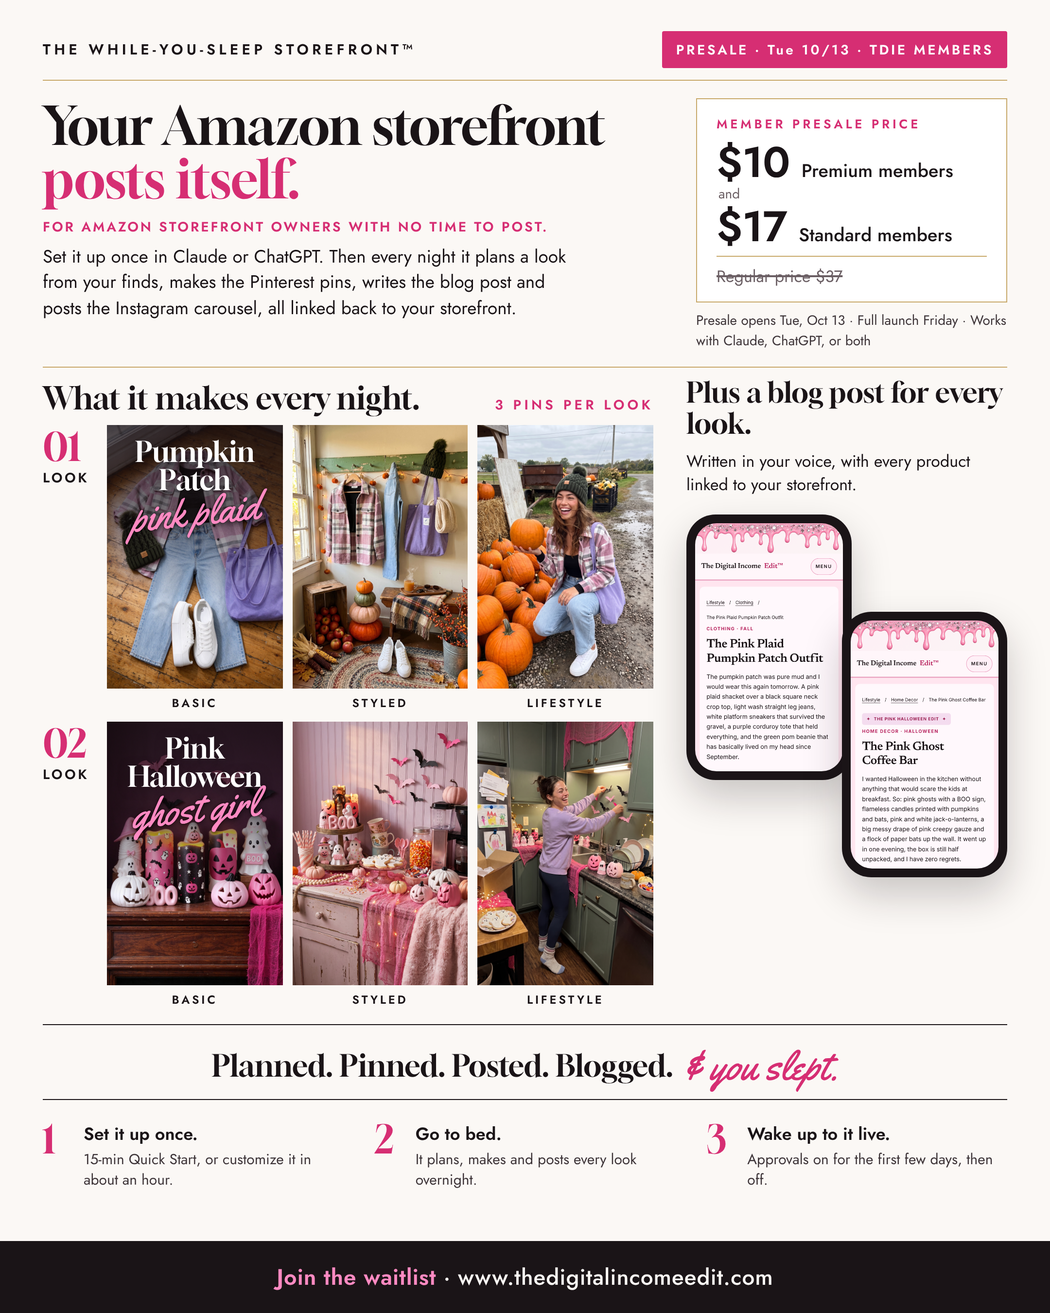
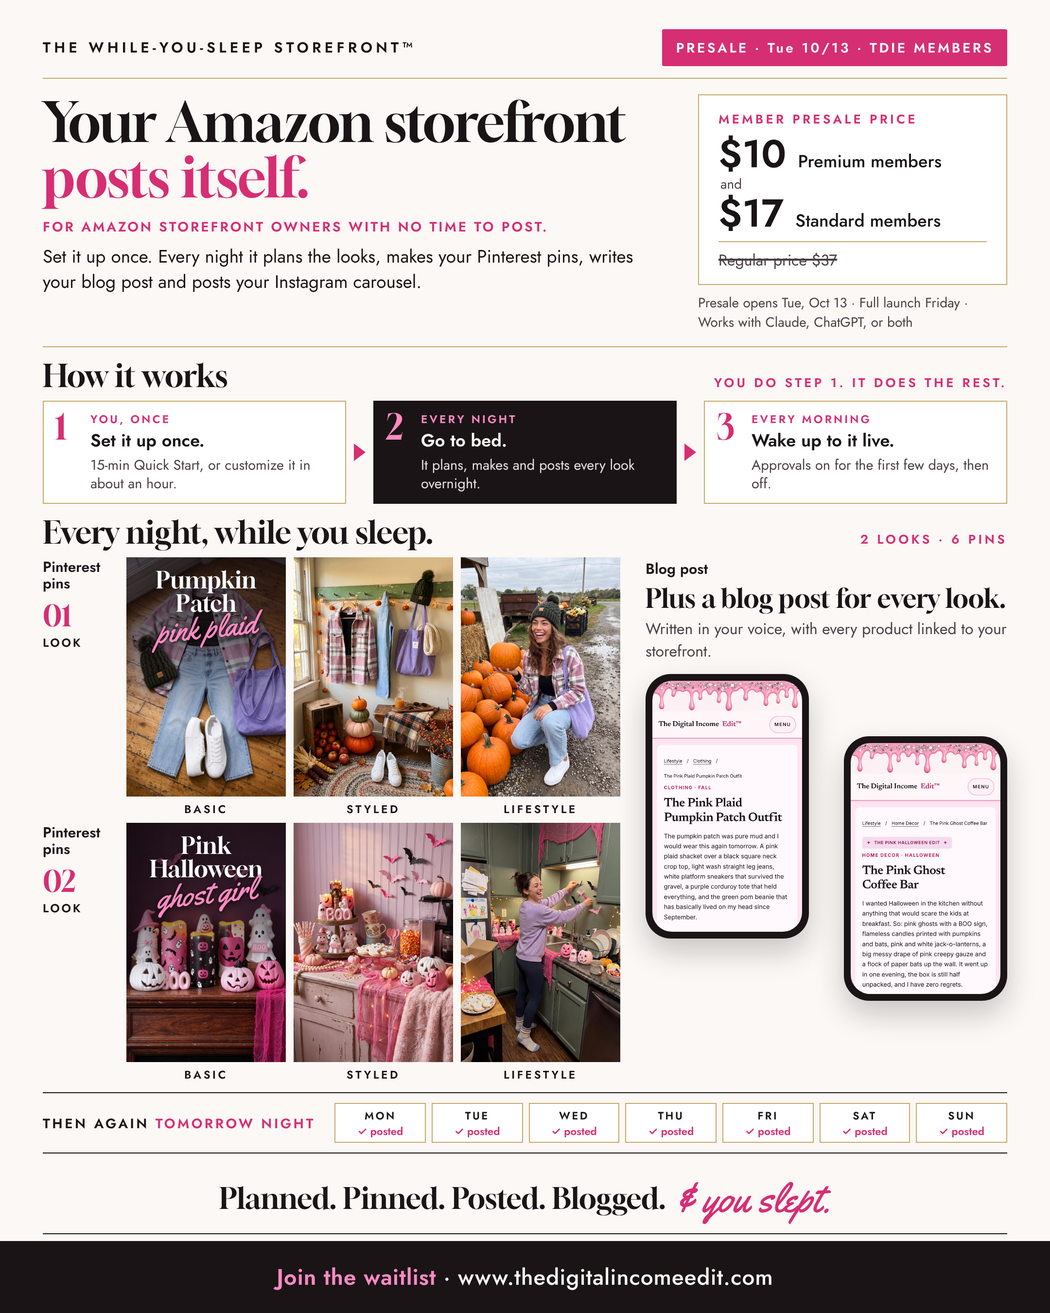
WYS presale poster: show the system, not just outputs
Adds a How it works flow (you once / every night / every morning), labels
outputs by channel, and a week strip so it reads as a nightly system.
Portable render script.

Claude-Session: https://claude.ai/code/session_01PnXq8563XBZe9JqR7UM4ct

diff --git a/ops/posters/wys-presale-2026-10/poster.html b/ops/posters/wys-presale-2026-10/poster.html
@@ -8,164 +8,150 @@
 @font-face { font-family: "Yellowtail"; src: url("fonts/Yellowtail-Regular.ttf"); font-display: block; }
 @font-face { font-family: "Jost"; src: url("fonts/Jost.ttf"); font-weight: 100 900; font-display: block; }
 
-:root {
-  --cream: #FBF8F5;
-  --ink: #1A1417;
-  --hot: #D62E73;
-  --bubble: #FF8AC2;
-  --gold: #C8A96A;
-  --pad: 44px;
-}
+:root { --cream: #FBF8F5; --ink: #1A1417; --hot: #D62E73; --bubble: #FF8AC2; --gold: #C8A96A; --muted: #4a3f44; --pad: 44px; }
 * { box-sizing: border-box; margin: 0; padding: 0; }
 html, body { background: var(--cream); }
 body { width: 1080px; color: var(--ink); font-family: "Jost", sans-serif; -webkit-font-smoothing: antialiased; }
-.poster { width: 1080px; background: var(--cream); position: relative; }
+.poster { width: 1080px; background: var(--cream); }
 .fb .poster { height: 1350px; overflow: hidden; display: flex; flex-direction: column; }
 .inner { padding: 0 var(--pad); }
 .fb .inner { flex: 1; display: flex; flex-direction: column; }
-
 .gold-rule { height: 1px; background: var(--gold); }
+.label { font-weight: 600; font-size: 13px; letter-spacing: 0.2em; text-transform: uppercase; }
+.pink { color: var(--hot); }
 
-/* ---------- top line ---------- */
-.topline { display: flex; justify-content: space-between; align-items: center; padding-top: 38px; padding-bottom: 14px; }
+/* top line */
+.topline { display: flex; justify-content: space-between; align-items: center; padding: 30px 0 12px; }
 .kicker { font-weight: 600; font-size: 15px; letter-spacing: 0.24em; }
 .badge { background: var(--hot); color: #fff; font-weight: 600; font-size: 14px; letter-spacing: 0.16em; padding: 9px 14px; border-radius: 2px; }
 
-/* ---------- hero ---------- */
-.hero { display: grid; grid-template-columns: minmax(0, 1fr) 330px; gap: 40px; padding: 26px 0 26px; align-items: start; }
-h1 { font-family: "Gloock", serif; font-weight: 400; font-size: 66px; line-height: 1.02; letter-spacing: -0.01em; }
+/* hero */
+.hero { display: grid; grid-template-columns: minmax(0, 1fr) 318px; gap: 36px; padding: 18px 0 18px; align-items: start; }
+h1 { font-family: "Gloock", serif; font-weight: 400; font-size: 56px; line-height: 1.02; letter-spacing: -0.01em; }
 h1 em { font-style: normal; color: var(--hot); }
-.sub { font-size: 21px; line-height: 1.42; margin-top: 18px; max-width: 30em; }
+.who-for { font-weight: 600; font-size: 14px; letter-spacing: 0.14em; text-transform: uppercase; color: var(--hot); margin-top: 12px; }
+.sub { font-size: 18.5px; line-height: 1.42; margin-top: 8px; }
+.price { border: 1px solid var(--gold); background: #fff; padding: 15px 20px 13px; }
+.price-row { display: flex; align-items: baseline; gap: 12px; margin-top: 6px; }
+.price-row .amt { font-weight: 600; font-size: 44px; line-height: 1; }
+.price-row .who { font-size: 18px; font-weight: 500; }
+.price-and { font-size: 14px; color: var(--muted); margin-left: 2px; }
+.price-reg { margin-top: 8px; padding-top: 7px; border-top: 1px solid var(--gold); font-size: 16px; text-decoration: line-through; text-decoration-thickness: 1.5px; color: var(--muted); }
+.sidenote { font-size: 14px; line-height: 1.45; margin-top: 8px; color: var(--muted); }
 
-.price { border: 1px solid var(--gold); background: #fff; padding: 20px 24px 18px; }
-.price-label { font-weight: 600; font-size: 13px; letter-spacing: 0.22em; color: var(--hot); }
-.price-row { display: flex; align-items: baseline; gap: 12px; margin-top: 10px; }
-.price-row .amt { font-weight: 600; font-size: 50px; line-height: 1; letter-spacing: -0.01em; }
-.price-row .who { font-size: 19px; font-weight: 500; }
-.price-and { font-size: 15px; color: #6b5f64; margin: 4px 0 0 2px; }
-.price-reg { margin-top: 12px; padding-top: 10px; border-top: 1px solid var(--gold); font-size: 17px; text-decoration: line-through; text-decoration-thickness: 1.5px; color: #6b5f64; }
-.sidenote { font-size: 14.5px; line-height: 1.5; margin-top: 12px; color: #3d3438; }
+/* system: 3 steps as a flow */
+.sys-head { display: flex; justify-content: space-between; align-items: baseline; padding: 16px 0 10px; }
+h2 { font-family: "Gloock", serif; font-weight: 400; font-size: 32px; line-height: 1.1; }
+.flow { display: grid; grid-template-columns: minmax(0,1fr) 28px minmax(0,1fr) 28px minmax(0,1fr); align-items: stretch; }
+.stage { border: 1px solid var(--gold); background: #fff; padding: 12px 14px 12px; display: grid; grid-template-columns: 30px minmax(0,1fr); gap: 6px; }
+.stage .num { font-family: "Gloock", serif; font-size: 36px; line-height: 0.9; color: var(--hot); }
+.stage .when { font-weight: 600; font-size: 11.5px; letter-spacing: 0.18em; color: var(--hot); display: block; }
+.stage b { display: block; font-weight: 600; font-size: 18px; margin-top: 1px; }
+.stage span.t { display: block; font-size: 14.5px; line-height: 1.35; margin-top: 2px; color: var(--muted); }
+.stage.night { background: var(--ink); color: var(--cream); border-color: var(--ink); }
+.stage.night .num, .stage.night .when { color: var(--bubble); }
+.stage.night span.t { color: #e9dfe3; }
+.arrow { display: flex; align-items: center; justify-content: center; }
+.arrow::before { content: ""; width: 0; height: 0; border-top: 9px solid transparent; border-bottom: 9px solid transparent; border-left: 12px solid var(--hot); }
 
-/* ---------- section heads ---------- */
-.sec-head { display: flex; justify-content: space-between; align-items: baseline; padding: 20px 0 14px; }
-h2 { font-family: "Gloock", serif; font-weight: 400; font-size: 36px; line-height: 1.1; }
-.count { font-weight: 600; font-size: 14px; letter-spacing: 0.22em; color: var(--hot); }
-
-/* ---------- looks ---------- */
-.body-grid { display: grid; grid-template-columns: minmax(0, 1fr) 300px; gap: 34px; }
-.look { display: grid; grid-template-columns: 62px minmax(0, 1fr); gap: 10px; margin-bottom: 18px; }
-.look-label { padding-top: 2px; }
-.look-label .n { font-family: "Gloock", serif; font-size: 40px; line-height: 1; color: var(--hot); display: block; }
-.look-label .w { font-weight: 600; font-size: 14px; letter-spacing: 0.16em; text-transform: uppercase; }
-.trio { display: grid; grid-template-columns: repeat(3, minmax(0, 1fr)); gap: 10px; }
+/* outputs */
+.makes { display: flex; justify-content: space-between; align-items: baseline; padding: 16px 0 10px; }
+.out-grid { display: grid; grid-template-columns: minmax(0, 1fr) 292px; gap: 24px; }
+.channel { display: grid; grid-template-columns: 74px minmax(0, 1fr); gap: 12px; margin-bottom: 10px; }
+.ch-name { padding-top: 2px; }
+.ch-name .p { font-weight: 600; font-size: 15px; display: block; line-height: 1.15; }
+.ch-name .look { display: block; margin-top: 8px; font-family: "Gloock", serif; font-size: 30px; line-height: 1; color: var(--hot); }
+.ch-name .lw { font-weight: 600; font-size: 12px; letter-spacing: 0.16em; text-transform: uppercase; }
+.trio { display: grid; grid-template-columns: repeat(3, minmax(0, 1fr)); gap: 8px; }
 .shot { position: relative; aspect-ratio: 2 / 3; overflow: hidden; background: #eee; }
 .shot img { width: 100%; height: 100%; object-fit: cover; display: block; }
-.cap { font-weight: 600; font-size: 13px; letter-spacing: 0.2em; margin-top: 8px; text-align: center; }
+.cap { font-weight: 600; font-size: 11.5px; letter-spacing: 0.2em; margin-top: 5px; text-align: center; }
 
-/* Basic overlay: layered magazine lockup */
-.lockup { position: absolute; inset: 0 0 auto 0; height: 62%; padding: 18px 12px 0;
-  background: linear-gradient(180deg, rgba(20,12,16,0.72) 0%, rgba(20,12,16,0.5) 45%, rgba(20,12,16,0) 100%);
-  text-align: center; }
-.lockup .serif { font-family: "Gloock", serif; color: #fff; font-size: 40px; line-height: 0.95; letter-spacing: -0.01em; display: block; text-shadow: 0 2px 12px rgba(0,0,0,0.35); }
-.lockup .script { font-family: "Yellowtail", cursive; color: var(--bubble); font-size: 50px; line-height: 1; display: block;
-  transform: rotate(-7deg); margin-top: -18px; position: relative; text-shadow: 0 2px 6px rgba(0,0,0,0.55), 0 0 2px rgba(0,0,0,0.6); }
+.lockup { position: absolute; inset: 0 0 auto 0; height: 68%; padding: 12px 6px 0; text-align: center;
+  background: linear-gradient(180deg, rgba(20,12,16,0.8) 0%, rgba(20,12,16,0.56) 50%, rgba(20,12,16,0) 100%); }
+.lockup .serif { font-family: "Gloock", serif; color: #fff; font-size: 27px; line-height: 0.98; display: block; text-shadow: 0 2px 12px rgba(0,0,0,0.35); }
+.lockup .script { font-family: "Yellowtail", cursive; color: var(--bubble); font-size: 36px; line-height: 1; display: block; transform: rotate(-6deg); margin-top: -2px;
+  text-shadow: 0 2px 6px rgba(0,0,0,0.6), 0 0 2px rgba(0,0,0,0.6); }
 
-/* ---------- blog ---------- */
-.blog h2 { font-size: 32px; }
-.blog p { font-size: 17px; line-height: 1.45; margin-top: 10px; }
-.phones { position: relative; height: 470px; margin-top: 22px; }
-.phone { position: absolute; width: 196px; background: var(--ink); border-radius: 30px; padding: 9px; box-shadow: 0 18px 40px rgba(26,20,23,0.22); }
-.phone img { display: block; width: 100%; border-radius: 22px; }
+.blog .p { font-weight: 600; font-size: 15px; }
+.blog h3 { font-family: "Gloock", serif; font-weight: 400; font-size: 24px; line-height: 1.12; margin-top: 4px; }
+.blog p { font-size: 15px; line-height: 1.4; margin-top: 6px; color: var(--muted); }
+.phones { position: relative; height: 330px; margin-top: 12px; }
+.phone { position: absolute; width: 150px; background: var(--ink); border-radius: 26px; padding: 7px; box-shadow: 0 14px 30px rgba(26,20,23,0.22); }
+.phone img { display: block; width: 100%; border-radius: 20px; }
 .phone.p1 { left: 0; top: 0; }
-.phone.p2 { right: 0; top: 112px; }
+.phone.p2 { right: 0; top: 70px; }
 
-/* ---------- phrase ---------- */
-.phrase { border-top: 1px solid var(--ink); border-bottom: 1px solid var(--ink); text-align: center; padding: 14px 0 12px; margin: 6px 0 0; }
-.phrase .p { font-family: "Gloock", serif; font-size: 34px; }
-.phrase .s { font-family: "Yellowtail", cursive; color: var(--hot); font-size: 46px; margin-left: 10px; position: relative; top: 3px; }
+/* destination + week */
+.dest { display: grid; grid-template-columns: auto minmax(0,1fr); gap: 20px; align-items: center; border-top: 1px solid var(--ink); border-bottom: 1px solid var(--ink); padding: 10px 0; margin-top: 4px; }
+.dest .to { font-weight: 600; font-size: 14px; letter-spacing: 0.16em; text-transform: uppercase; }
+.dest .to b { color: var(--hot); font-weight: 600; }
+.week { display: grid; grid-template-columns: repeat(7, minmax(0,1fr)); gap: 6px; }
+.day { text-align: center; border: 1px solid var(--gold); padding: 4px 0 3px; background: #fff; }
+.day .d { font-weight: 600; font-size: 11px; letter-spacing: 0.16em; display: block; }
+.day .c { font-size: 11px; color: var(--hot); font-weight: 600; display: block; }
 
-/* ---------- steps ---------- */
-.steps { display: grid; grid-template-columns: repeat(3, minmax(0, 1fr)); gap: 32px; padding: 22px 0 22px; }
-.step { display: grid; grid-template-columns: 34px minmax(0, 1fr); gap: 8px; }
-.step .num { font-family: "Gloock", serif; font-size: 40px; line-height: 0.9; color: var(--hot); }
-.step b { display: block; font-weight: 600; font-size: 19px; }
-.step span { display: block; font-size: 15.5px; line-height: 1.4; margin-top: 3px; color: #3d3438; }
+/* phrase */
+.phrase { text-align: center; padding: 14px 0 10px; }
+.phrase .p { font-family: "Gloock", serif; font-size: 30px; }
+.phrase .s { font-family: "Yellowtail", cursive; color: var(--hot); font-size: 42px; margin-left: 10px; position: relative; top: 3px; }
+.phrase-wrap { border-bottom: 1px solid var(--ink); }
 
-/* ---------- final bar ---------- */
-.bar { background: var(--ink); color: var(--cream); text-align: center; padding: 26px var(--pad); font-size: 24px; font-weight: 500; letter-spacing: 0.02em; }
+/* bar */
+.bar { background: var(--ink); color: var(--cream); text-align: center; padding: 20px var(--pad); font-size: 23px; font-weight: 500; letter-spacing: 0.02em; }
 .bar .j { color: var(--bubble); font-weight: 600; }
 .fb .bar { margin-top: auto; }
 
-/* ---------- Skool (tall) variant ---------- */
-.skool .hero { padding: 40px 0 40px; }
-.skool h1 { font-size: 72px; }
-.skool .body-grid { display: block; }
-.skool .look { grid-template-columns: 80px minmax(0, 1fr); gap: 14px; margin-bottom: 30px; }
-.skool .look-label .n { font-size: 52px; }
-.skool .trio { gap: 14px; }
-.skool .lockup { padding-top: 26px; }
-.skool .lockup .serif { font-size: 54px; }
-.skool .lockup .script { font-size: 66px; margin-top: -24px; }
-.skool .cap { font-size: 15px; }
-.skool .blog { display: grid; grid-template-columns: minmax(0, 1fr) 540px; gap: 36px; align-items: center; padding: 30px 0 40px; border-top: 1px solid var(--gold); }
-.skool .blog h2 { font-size: 40px; }
-.skool .blog p { font-size: 20px; }
-.skool .phones { height: auto; margin: 0; position: static; display: grid; grid-template-columns: 1fr 1fr; gap: 24px; }
-.skool .phone { position: static; width: auto; }
-.skool .phone.p2 { margin-top: 70px; }
-.skool .phrase { padding: 22px 0 18px; }
-.skool .phrase .p { font-size: 40px; }
-.skool .phrase .s { font-size: 54px; }
-.skool .steps { padding: 34px 0 40px; }
-.skool .step b { font-size: 21px; }
-.skool .step span { font-size: 17px; }
+/* fb fit */
+.fb .out-grid { grid-template-columns: minmax(0,1fr) 372px; gap: 26px; }
+.fb .phones { height: 300px; }
+.fb .phone { width: 168px; }
+.fb .phone.p2 { top: 64px; }
+.fb .blog h3 { font-size: 27px; }
+.fb .blog p { font-size: 16px; }
+.fb .sys-head, .fb .makes { padding: 12px 0 8px; }
+.fb .stage { padding: 10px 12px; }
+.fb .price-row .amt { font-size: 40px; }
+.fb .hero { padding: 16px 0 14px; }
+.fb .lockup .serif { font-size: 24px; }
+.fb .lockup .script { font-size: 32px; }
+.fb .channel { margin-bottom: 6px; }
 
-/* ---- fit pass ---- */
-.lockup { padding: 14px 8px 0; height: 66%; background: linear-gradient(180deg, rgba(20,12,16,0.78) 0%, rgba(20,12,16,0.55) 50%, rgba(20,12,16,0) 100%); }
-.lockup .serif { font-size: 31px; line-height: 0.98; }
-.lockup .script { font-size: 41px; margin-top: -12px; }
-.fb h1 { font-size: 58px; }
-.fb .hero { padding: 22px 0 22px; }
-.fb .sub { font-size: 20px; margin-top: 14px; }
-.fb .price { padding: 16px 20px 14px; }
-.fb .price-row .amt { font-size: 44px; }
-.fb .price-row { margin-top: 8px; }
-.fb .sec-head { padding: 14px 0 10px; }
-.fb h2 { font-size: 32px; }
-.fb .blog h2 { font-size: 29px; margin-top: 10px; }
-.fb .look { margin-bottom: 10px; grid-template-columns: 56px minmax(0,1fr); }
-.fb .cap { margin-top: 6px; font-size: 12px; }
-.fb .phrase { padding: 10px 0 8px; }
-.fb .phrase .p { font-size: 31px; }
-.fb .phrase .s { font-size: 42px; }
-.fb .steps { padding: 16px 0 18px; }
-.fb .step b { font-size: 18px; }
-.fb .step span { font-size: 15px; }
-.fb .bar { padding: 20px var(--pad); font-size: 23px; }
-.fb .phones { height: 430px; margin-top: 18px; }
-.fb .phone { width: 180px; }
-.fb .phone.p2 { top: 100px; }
+/* Skool (tall) */
+.skool .hero { padding: 34px 0 34px; }
+.skool h1 { font-size: 68px; }
+.skool .sub { font-size: 20px; }
+.skool .sys-head, .skool .makes { padding: 28px 0 16px; }
+.skool h2 { font-size: 40px; }
+.skool .stage { padding: 18px 18px; }
+.skool .stage b { font-size: 21px; }
+.skool .stage span.t { font-size: 16px; }
+.skool .out-grid { display: block; }
+.skool .channel { grid-template-columns: 96px minmax(0,1fr); gap: 16px; margin-bottom: 26px; }
+.skool .ch-name .p { font-size: 18px; }
+.skool .ch-name .look { font-size: 44px; }
+.skool .trio { gap: 14px; }
 .skool .lockup { padding-top: 22px; }
 .skool .lockup .serif { font-size: 50px; }
-.skool .lockup .script { font-size: 64px; margin-top: -18px; }
-.who-for { font-weight: 600; font-size: 15px; letter-spacing: 0.14em; text-transform: uppercase; color: var(--hot); margin-top: 16px; }
-.fb .sub { font-size: 18.5px; margin-top: 8px; }
-.fb .who-for { margin-top: 12px; font-size: 14px; }
-.fb h1 { font-size: 54px; }
-.fb .lockup .serif { font-size: 29px; }
-.fb .phones { height: 400px; }
-.fb .phone { width: 170px; }
-.fb .body-grid { grid-template-columns: minmax(0,1fr) 330px; }
-.fb .hero { padding: 18px 0 16px; grid-template-columns: minmax(0,1fr) 320px; }
-.fb .price-and { margin: 0 0 0 2px; font-size: 14px; }
-.fb .price-reg { margin-top: 8px; padding-top: 8px; }
-.fb .sidenote { margin-top: 8px; font-size: 14px; }
-.fb .topline { padding-top: 32px; padding-bottom: 12px; }
-.fb .steps { padding: 14px 0 16px; }
-.lockup .script { margin-top: -2px; transform: rotate(-6deg); }
-.skool .lockup .script { margin-top: -4px; }
-.fb .steps { padding: 22px 0 22px; }
-.skool .phones { align-items: start; }
+.skool .lockup .script { font-size: 64px; margin-top: -4px; }
+.skool .cap { font-size: 14px; margin-top: 8px; }
+.skool .blog { display: grid; grid-template-columns: minmax(0,1fr) 520px; gap: 36px; align-items: center; padding: 10px 0 30px; }
+.skool .blog h3 { font-size: 38px; }
+.skool .blog p { font-size: 19px; }
+.skool .blog .p { font-size: 18px; }
+.skool .phones { position: static; height: auto; margin: 0; display: grid; grid-template-columns: 1fr 1fr; gap: 22px; align-items: start; }
+.skool .phone { position: static; width: auto; padding: 9px; border-radius: 30px; }
+.skool .phone img { border-radius: 22px; }
+.skool .phone.p2 { margin-top: 60px; }
+.skool .dest { padding: 18px 0; }
+.skool .dest .to { font-size: 16px; }
+.skool .day { padding: 8px 0 6px; }
+.skool .day .d, .skool .day .c { font-size: 13px; }
+.skool .phrase { padding: 24px 0 20px; }
+.skool .phrase .p { font-size: 38px; }
+.skool .phrase .s { font-size: 52px; }
+.skool .bar { padding: 28px var(--pad); font-size: 26px; }
+.skool .phrase-wrap { margin-bottom: 36px; }
 </style>
 </head>
 <body>
@@ -181,14 +167,14 @@ h2 { font-family: "Gloock", serif; font-weight: 400; font-size: 36px; line-heigh
       <div>
         <h1>Your Amazon storefront <em>posts itself.</em></h1>
         <p class="who-for">For Amazon storefront owners with no time to post.</p>
-        <p class="sub">Set it up once in Claude or ChatGPT. Then every night it plans a look from your finds, makes the Pinterest pins, writes the blog post and posts the Instagram carousel, all linked back to your storefront.</p>
+        <p class="sub">Set it up once. Every night it plans the looks, makes your Pinterest pins, writes your blog post and posts your Instagram carousel.</p>
       </div>
       <div>
         <div class="price">
-          <div class="price-label">MEMBER PRESALE PRICE</div>
+          <div class="label pink">MEMBER PRESALE PRICE</div>
           <div class="price-row"><span class="amt">$10</span><span class="who">Premium members</span></div>
           <div class="price-and">and</div>
-          <div class="price-row" style="margin-top:2px"><span class="amt">$17</span><span class="who">Standard members</span></div>
+          <div class="price-row" style="margin-top:0"><span class="amt">$17</span><span class="who">Standard members</span></div>
           <div class="price-reg">Regular price $37</div>
         </div>
         <p class="sidenote">Presale opens Tue, Oct 13 · Full launch Friday · Works with Claude, ChatGPT, or both</p>
@@ -196,39 +182,45 @@ h2 { font-family: "Gloock", serif; font-weight: 400; font-size: 36px; line-heigh
     </section>
     <div class="gold-rule"></div>
 
-    <div class="body-grid">
-      <section class="looks">
-        <div class="sec-head">
-          <h2>What it makes every night.</h2>
-          <span class="count">3 PINS PER LOOK</span>
-        </div>
+    <div class="sys-head">
+      <h2>How it works</h2>
+      <span class="label pink">You do step 1. It does the rest.</span>
+    </div>
+    <section class="flow">
+      <div class="stage"><div class="num">1</div><div><span class="when">YOU, ONCE</span><b>Set it up once.</b><span class="t">15-min Quick Start, or customize it in about an hour.</span></div></div>
+      <div class="arrow"></div>
+      <div class="stage night"><div class="num">2</div><div><span class="when">EVERY NIGHT</span><b>Go to bed.</b><span class="t">It plans, makes and posts every look overnight.</span></div></div>
+      <div class="arrow"></div>
+      <div class="stage"><div class="num">3</div><div><span class="when">EVERY MORNING</span><b>Wake up to it live.</b><span class="t">Approvals on for the first few days, then off.</span></div></div>
+    </section>
 
-        <div class="look">
-          <div class="look-label"><span class="n">01</span><span class="w">Look</span></div>
+    <div class="makes">
+      <h2>Every night, while you sleep.</h2>
+      <span class="label pink">2 LOOKS · 6 PINS</span>
+    </div>
+    <div class="out-grid">
+      <section>
+        <div class="channel">
+          <div class="ch-name"><span class="p">Pinterest pins</span><span class="look">01</span><span class="lw">Look</span></div>
           <div class="trio">
-            <div><div class="shot"><img src="img/pink-plaid-pumpkin-patch-outfit-basic.jpg" alt="">
-              <div class="lockup"><span class="serif">Pumpkin<br>Patch</span><span class="script">pink plaid</span></div></div>
-              <div class="cap">BASIC</div></div>
+            <div><div class="shot"><img src="img/pink-plaid-pumpkin-patch-outfit-basic.jpg" alt=""><div class="lockup"><span class="serif">Pumpkin<br>Patch</span><span class="script">pink plaid</span></div></div><div class="cap">BASIC</div></div>
             <div><div class="shot"><img src="img/pink-plaid-pumpkin-patch-outfit-styled.jpg" alt=""></div><div class="cap">STYLED</div></div>
-            <div><div class="shot"><img src="img/pink-plaid-pumpkin-patch-outfit-lifestyle.png" alt="" style="object-position: 62% 50%"></div><div class="cap">LIFESTYLE</div></div>
+            <div><div class="shot"><img src="img/pink-plaid-pumpkin-patch-outfit-lifestyle.png" alt="" style="object-position:62% 50%"></div><div class="cap">LIFESTYLE</div></div>
           </div>
         </div>
-
-        <div class="look">
-          <div class="look-label"><span class="n">02</span><span class="w">Look</span></div>
+        <div class="channel">
+          <div class="ch-name"><span class="p">Pinterest pins</span><span class="look">02</span><span class="lw">Look</span></div>
           <div class="trio">
-            <div><div class="shot"><img src="img/pink-ghost-coffee-bar-basic.jpg" alt="">
-              <div class="lockup"><span class="serif">Pink<br>Halloween</span><span class="script">ghost girl</span></div></div>
-              <div class="cap">BASIC</div></div>
+            <div><div class="shot"><img src="img/pink-ghost-coffee-bar-basic.jpg" alt=""><div class="lockup"><span class="serif">Pink<br>Halloween</span><span class="script">ghost girl</span></div></div><div class="cap">BASIC</div></div>
             <div><div class="shot"><img src="img/pink-ghost-coffee-bar-styled.jpg" alt=""></div><div class="cap">STYLED</div></div>
-            <div><div class="shot"><img src="img/pink-ghost-coffee-bar-lifestyle.png" alt="" style="object-position: 60% 50%"></div><div class="cap">LIFESTYLE</div></div>
+            <div><div class="shot"><img src="img/pink-ghost-coffee-bar-lifestyle.png" alt="" style="object-position:60% 50%"></div><div class="cap">LIFESTYLE</div></div>
           </div>
         </div>
       </section>
-
       <section class="blog">
         <div>
-          <h2>Plus a blog post for every look.</h2>
+          <span class="p">Blog post</span>
+          <h3>Plus a blog post for every look.</h3>
           <p>Written in your voice, with every product linked to your storefront.</p>
         </div>
         <div class="phones">
@@ -238,15 +230,22 @@ h2 { font-family: "Gloock", serif; font-weight: 400; font-size: 36px; line-heigh
       </section>
     </div>
 
-    <section class="phrase">
-      <span class="p">Planned. Pinned. Posted. Blogged.</span><span class="s">&amp; you slept.</span>
+    <section class="dest">
+      <div class="to">Then again <b>tomorrow night</b></div>
+      <div class="week">
+        <div class="day"><span class="d">MON</span><span class="c">✓ posted</span></div>
+        <div class="day"><span class="d">TUE</span><span class="c">✓ posted</span></div>
+        <div class="day"><span class="d">WED</span><span class="c">✓ posted</span></div>
+        <div class="day"><span class="d">THU</span><span class="c">✓ posted</span></div>
+        <div class="day"><span class="d">FRI</span><span class="c">✓ posted</span></div>
+        <div class="day"><span class="d">SAT</span><span class="c">✓ posted</span></div>
+        <div class="day"><span class="d">SUN</span><span class="c">✓ posted</span></div>
+      </div>
     </section>
 
-    <section class="steps">
-      <div class="step"><div class="num">1</div><div><b>Set it up once.</b><span>15-min Quick Start, or customize it in about an hour.</span></div></div>
-      <div class="step"><div class="num">2</div><div><b>Go to bed.</b><span>It plans, makes and posts every look overnight.</span></div></div>
-      <div class="step"><div class="num">3</div><div><b>Wake up to it live.</b><span>Approvals on for the first few days, then off.</span></div></div>
-    </section>
+    <div class="phrase-wrap">
+      <section class="phrase"><span class="p">Planned. Pinned. Posted. Blogged.</span><span class="s">&amp; you slept.</span></section>
+    </div>
   </div>
   <div class="bar"><span class="j">Join the waitlist</span> · www.thedigitalincomeedit.com</div>
 </div>
